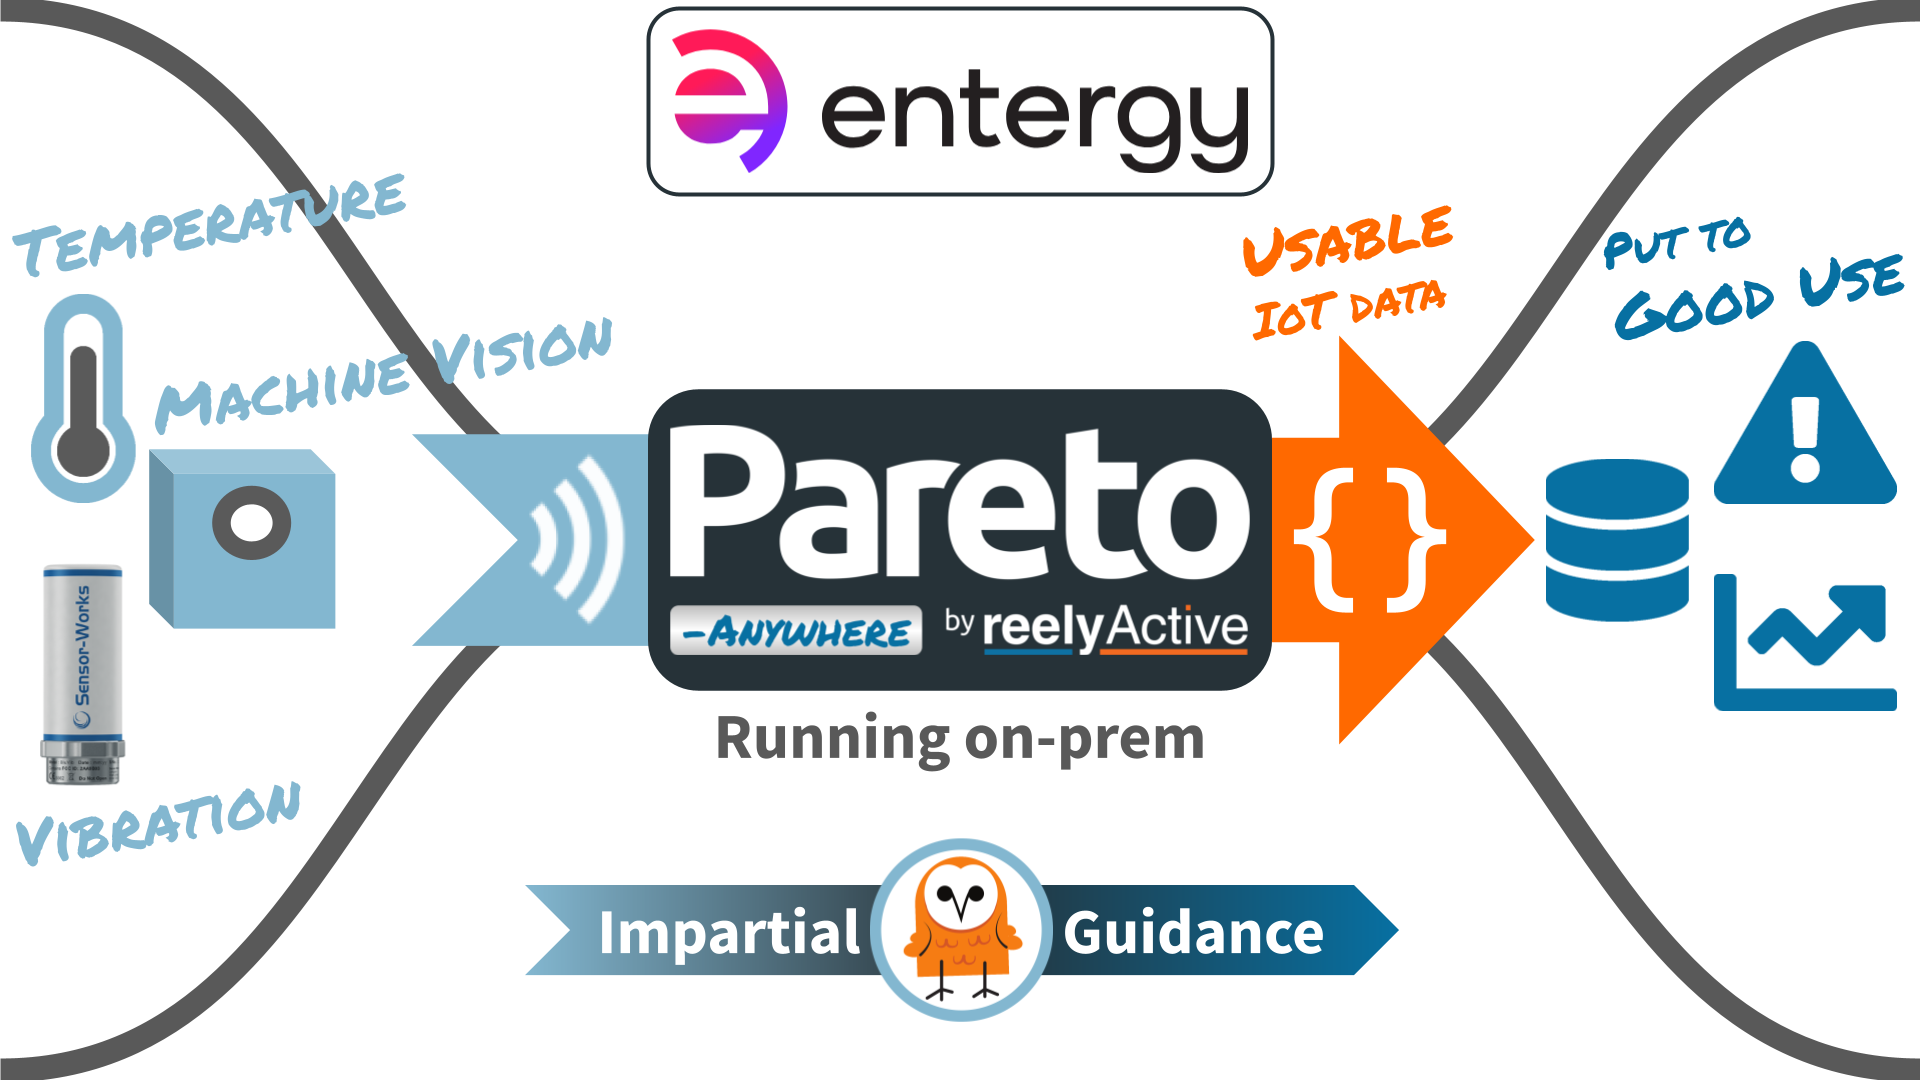
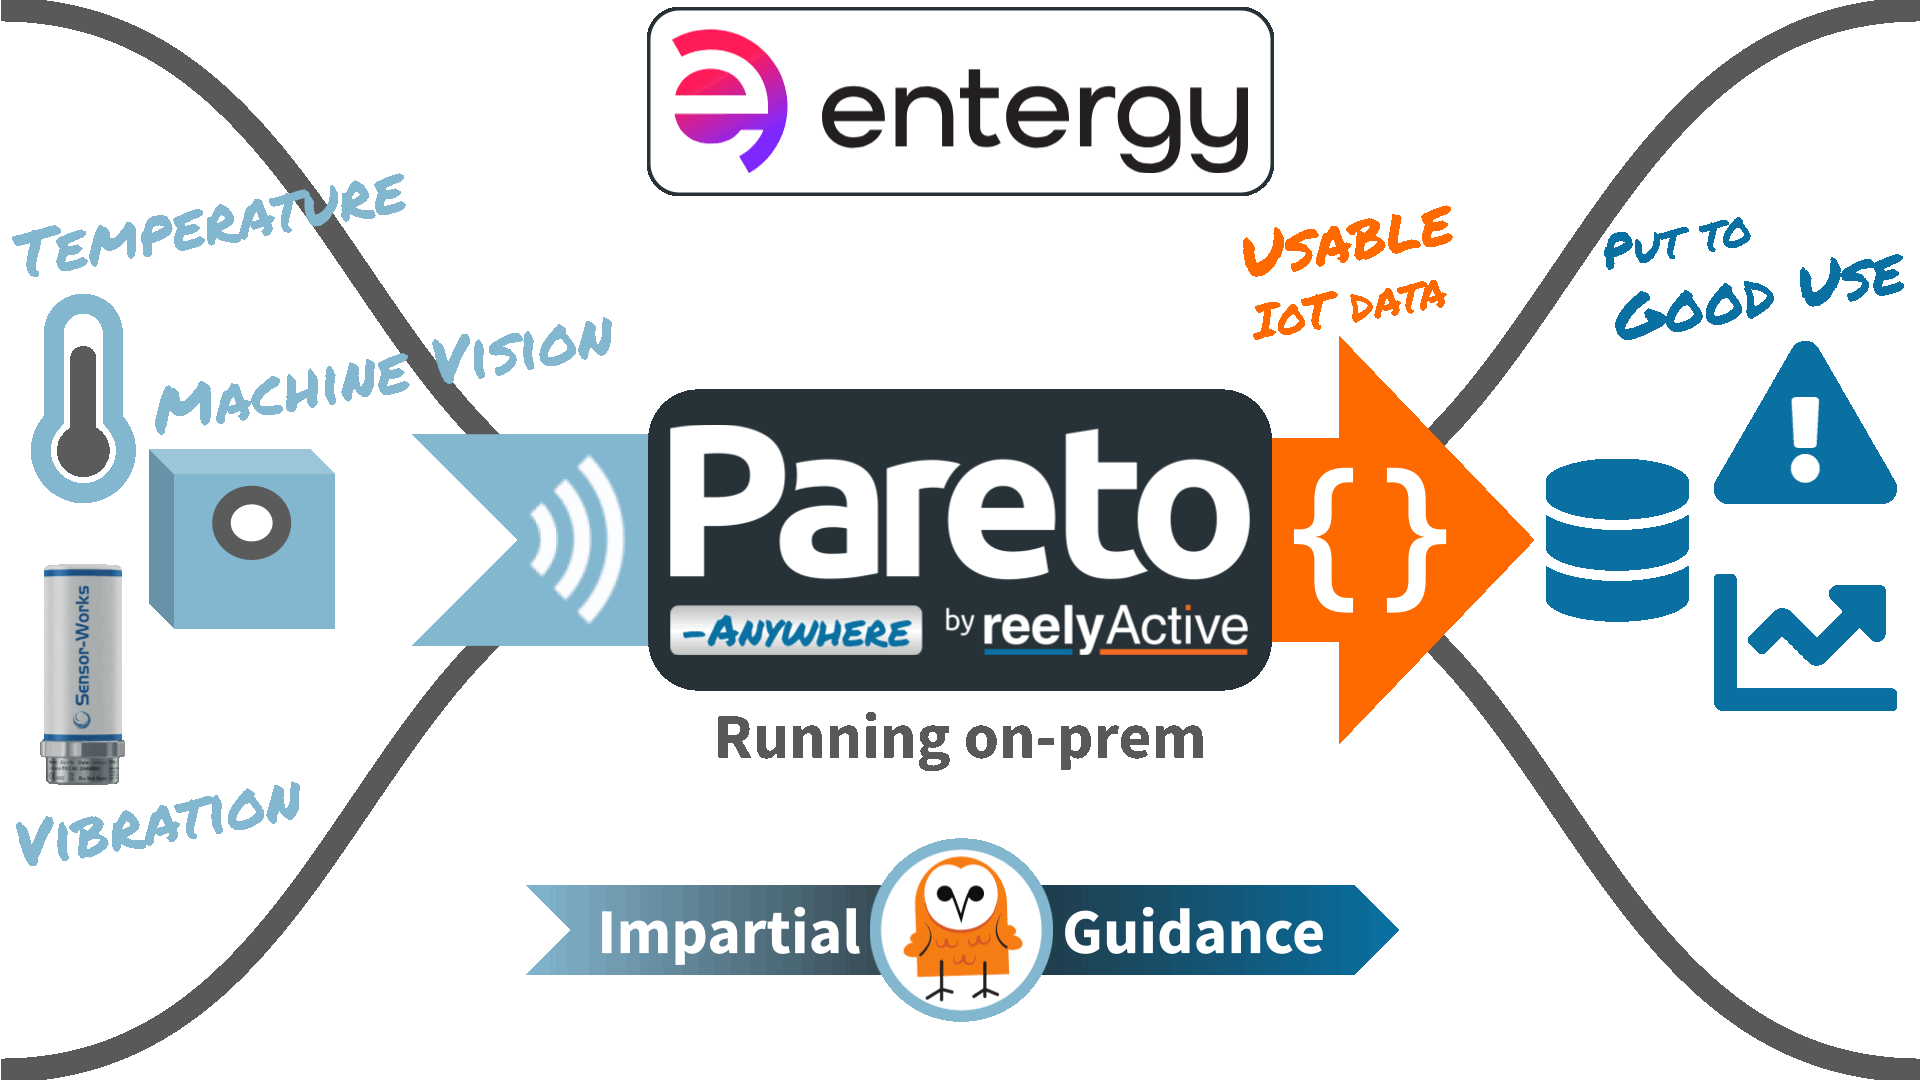
Added CNIMI funnel and reduced image sizes

Changed region(s): [[0.6562, 0.275, 0.6875, 0.3056]]

diff --git a/index.html b/index.html
@@ -687,6 +687,42 @@
                     </div>
                   </div>
                 </div>
+                <!-- CNIMI -->
+                <div class="carousel-item">
+                  <div class="row justify-content-center g-0">
+                    <div class="col-md-5 align-self-center">
+                      <div class="card-body">
+                        <h2 class="card-title"> CNIMI </h2>
+                        <p class="card-text lead text-body-secondary mb-1"> Wirelessly <span class="text-ambient fw-bold">locates</span> &amp; <span class="text-ambient fw-bold">senses</span> </p>
+                        <ul class="card-text list-unstyled ms-3 mb-2">
+                          <li>
+                            <i class="fas fa-tag text-ambient"></i>
+                            mobile assets
+                          </li>
+                          <li>
+                            <i class="fas fa-cog text-ambient"></i>
+                            industrial equipment
+                          </li>
+                        </ul>
+                        <p class="card-text lead text-body-secondary mb-1"> putting data to <span class="text-primary fw-bold">good use</span> for </p>
+                        <ul class="card-text list-unstyled ms-3">
+                          <li>
+                            <i class="fas fa-check text-primary"></i>
+                            comparative analysis
+                          </li>
+                          <li>
+                            <i class="fas fa-check text-primary"></i>
+                            knowledge transfer
+                          </li>
+                        </ul>
+                      </div>
+                    </div>
+                    <div class="col-10 col-md-7 align-self-center">
+                      <img src="images/case-studies-cnimi-funnel.png"
+                           class="img-fluid my-1" alt="CNIMI IoT funnel">
+                    </div>
+                  </div>
+                </div>
               </div>
             </div>
             <div class="card-footer">
